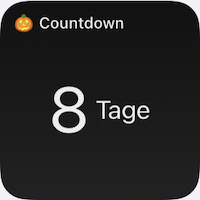
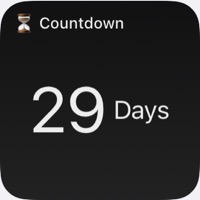
Countdown 1.1.0 - Languages

diff --git a/Countdown/Countdown.js b/Countdown/Countdown.js
@@ -21,6 +21,15 @@ if (widgetInputRAW !== null) {
 }
 
 ////////////////////////////////////////////////////////////////////////////////
+const localeText = {
+  default: ['Day', 'Days'],
+  en: ['Day', 'Days'],
+  de: ['Tag', 'Tage'],
+  fr: ['Jour', 'Jours'],
+  es: ['día', 'días'],
+  it: ['giorno', 'giorni']
+}
+////////////////////////////////////////////////////////////////////////////////
 let backColor; //Widget background color
 let backColor2; //Widget background color
 let textColor; //Widget text color
@@ -84,12 +93,14 @@ dayText.minimumScaleFactor = 0.5;
 
 textStack.addSpacer(5)
 
+const languageCode = Device.language().match(/^[\a-z]{2}/)
+const t = (localeText[languageCode]) ? localeText[languageCode] : localeText.default
 let postfixText;
 if (remainingDays === 1) {
-  postfixText = textStack.addText('Tag')
+  postfixText = textStack.addText(t[0])
 
 } else {
-  postfixText = textStack.addText('Tage')
+  postfixText = textStack.addText(t[1])
 }
 postfixText.font = Font.regularSystemFont(20)
 postfixText.textColor = new Color(textColor);
